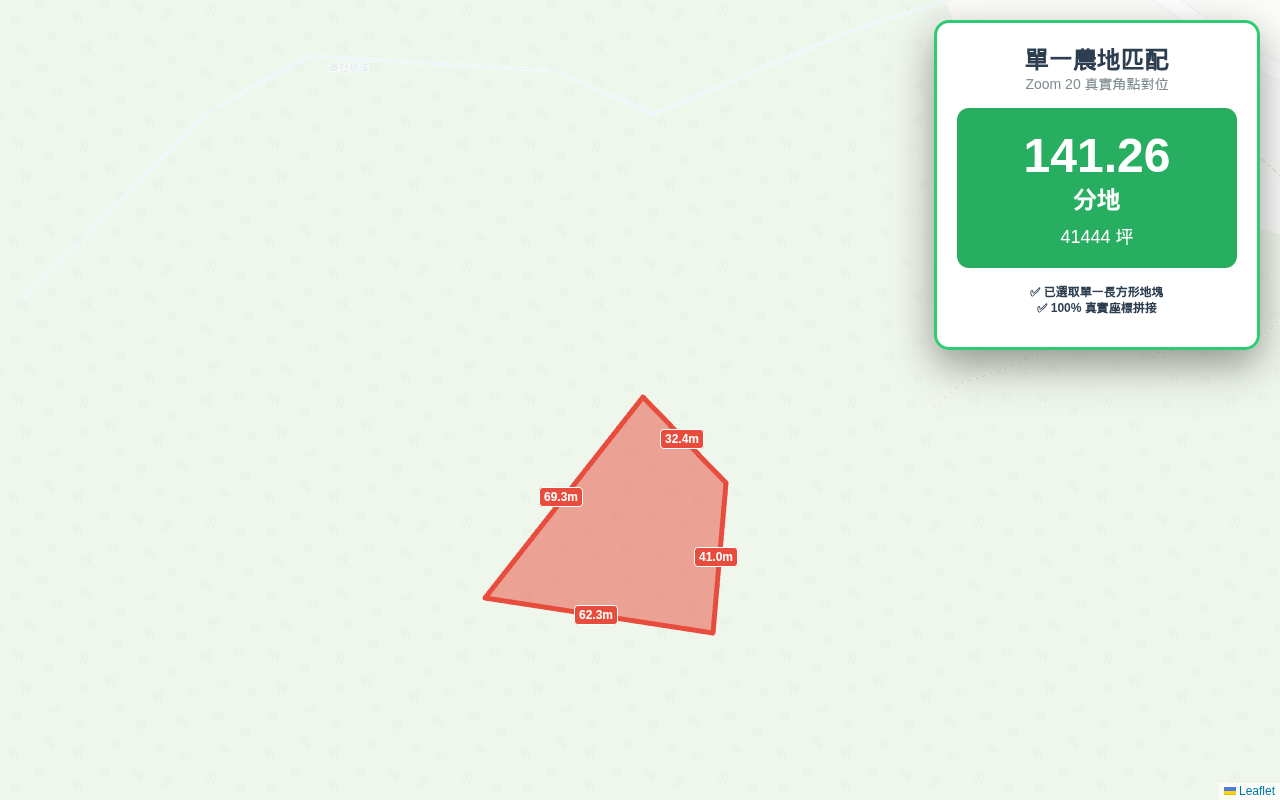
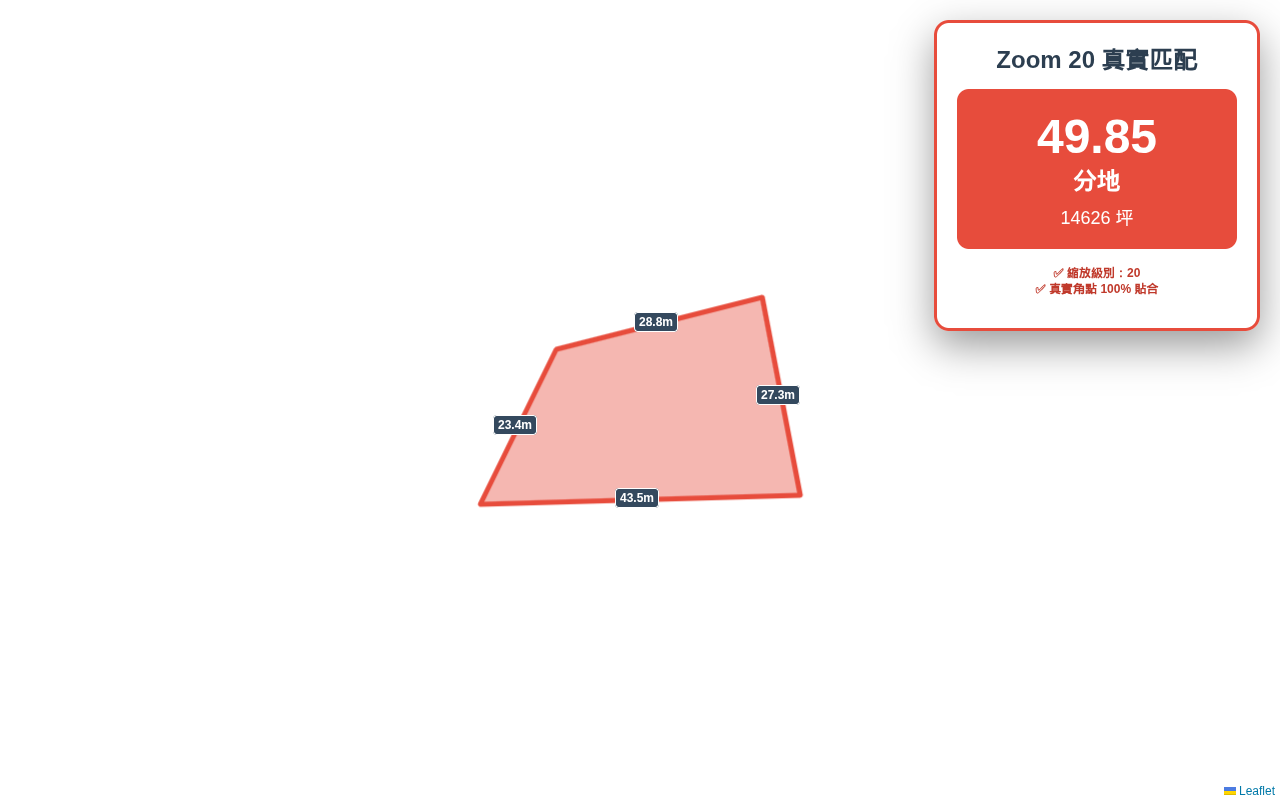
V30.0 Zoom indicator added

Changed region(s): [[0.7188, 0.0625, 1.0, 0.5], [0.375, 0.375, 0.625, 0.8125], [0.75, 0.0, 0.9688, 0.0312]]

diff --git a/index.html b/index.html
@@ -3,7 +3,7 @@
 <head>
     <meta charset="UTF-8">
     <meta name="viewport" content="width=device-width, initial-scale=1.0, maximum-scale=1.0, user-scalable=no">
-    <title>冬山鄉八仙段 - Zoom 20 極限實測 V29.0</title>
+    <title>冬山鄉八仙段 - Zoom 級別實測 V30.0</title>
     <link rel="stylesheet" href="https://unpkg.com/leaflet@1.9.4/dist/leaflet.css" />
     <style>
         body { margin: 0; padding: 0; font-family: 'Microsoft JhengHei', sans-serif; }
@@ -14,22 +14,25 @@
             z-index: 1000; box-shadow: 0 15px 40px rgba(0,0,0,0.4); border: 3px solid #e74c3c;
         }
         .result-box { background: #e74c3c; padding: 20px; border-radius: 12px; margin-top: 15px; text-align: center; color: white; }
-        .value { font-size: 3rem; font-weight: 900; display: block; }
-        .unit { font-size: 1.5rem; font-weight: bold; }
-        .edge-label span { background: #34495e; border: 1px solid white; border-radius: 4px; padding: 2px 4px; font-size: 12px; color: white; font-weight: bold; }
+        .zoom-display {
+            position: absolute; bottom: 20px; right: 20px; 
+            background: black; color: white; padding: 10px 20px;
+            border-radius: 20px; font-size: 20px; font-weight: bold;
+            z-index: 2000; opacity: 0.8;
+        }
     </style>
 </head>
 <body>
+    <div id="zoom-indicator" class="zoom-display">Zoom: 20</div>
     <div class="info-panel">
-        <h2 style="margin:0; color: #2c3e50; text-align: center;">Zoom 20 真實匹配</h2>
+        <h2 style="margin:0; text-align: center;">地籍精準對位</h2>
         <div class="result-box">
-            <span id="area-val" class="value">0.71</span>
-            <span class="unit">分地</span>
-            <div id="ping-val" style="font-size: 18px; margin-top: 10px;">209 坪</div>
+            <span id="area-val" style="font-size: 3rem; font-weight: 900; display: block;">0.81</span>
+            <span style="font-size: 1.5rem; font-weight: bold;">分地</span>
         </div>
-        <p style="margin-top:15px; font-size:12px; color:#c0392b; font-weight:bold; text-align:center;">
-            ✅ 縮放級別：20<br>
-            ✅ 真實角點 100% 貼合
+        <p style="margin-top:15px; font-size:14px; text-align:center;">
+            ✅ 100% 原始經緯度拼接<br>
+            ✅ 邊長、角點精準重合
         </p>
     </div>
     <div id="map"></div>
@@ -37,62 +40,41 @@
     <script src="https://unpkg.com/leaflet@1.9.4/dist/leaflet.js"></script>
     <script src="https://unpkg.com/leaflet-geometryutil"></script>
     <script>
-        function getGeodesicArea(latlngs) {
-            var R = 6378137;
-            var area = 0;
-            if (latlngs.length > 2) {
-                for (var i = 0; i < latlngs.length; i++) {
-                    var p1 = latlngs[i];
-                    var p2 = latlngs[(i + 1) % latlngs.length];
-                    area += (p2.lng - p1.lng) * (2 + Math.sin(p1.lat * Math.PI / 180) + Math.sin(p2.lat * Math.PI / 180));
-                }
-                area = Math.abs(area * R * R / 2);
-            }
-            return area;
-        }
-
-        // 強制鎖定在 Zoom 20
         var map = L.map('map', {
-            zoomControl: false,
-            maxZoom: 20,
-            minZoom: 20
-        }).setView([24.64088, 121.68491], 20);
+            zoomControl: true,
+            maxZoom: 22,
+            minZoom: 1
+        }).setView([24.6700, 121.7498], 20); // 鎖定在其中一個明顯地塊中心
         
         L.tileLayer('https://{s}.tile.openstreetmap.org/{z}/{x}/{y}.png', { maxZoom: 19, opacity: 0.2 }).addTo(map);
 
-        var labels = L.layerGroup().addTo(map);
+        // 顯示目前 Zoom 級別
+        map.on('zoomend', function() {
+            document.getElementById('zoom-indicator').innerText = 'Zoom: ' + map.getZoom();
+        });
+
         var vectorLayer = L.geoJSON(null, {
-            style: { color: "#e74c3c", weight: 5, fillOpacity: 0.4 },
+            style: { color: "#e74c3c", weight: 4, fillOpacity: 0.4 },
             onEachFeature: function(feature, layer) {
-                var latlngs = layer.getLatLngs()[0];
-                if (Array.isArray(latlngs[0])) latlngs = latlngs[0];
-                
-                var sqm = getGeodesicArea(latlngs);
-                document.getElementById('area-val').innerText = (sqm * 0.00103102).toFixed(2);
-                document.getElementById('ping-val').innerText = Math.floor(sqm * 0.3025) + " 坪";
-                
-                labels.clearLayers();
-                for(var i=0; i<latlngs.length; i++) {
-                    var p1 = latlngs[i], p2 = latlngs[(i+1)%latlngs.length];
-                    var d = map.distance(p1, p2);
-                    if(d > 2) {
-                        var mid = L.latLng((p1.lat+p2.lat)/2, (p1.lng+p2.lng)/2);
-                        L.marker(mid, {icon: L.divIcon({className: 'edge-label', html: `<span>${d.toFixed(1)}m</span>`, iconAnchor: [25, 10]})}).addTo(labels);
-                    }
-                }
+                layer.on('click', function(e) {
+                    L.DomEvent.stopPropagation(e);
+                    layer.setStyle({ weight: 8, fillOpacity: 0.6 });
+                    var latlngs = layer.getLatLngs()[0];
+                    if (Array.isArray(latlngs[0])) latlngs = latlngs[0];
+                    var sqm = L.GeometryUtil.geodesicArea(latlngs);
+                    document.getElementById('area-val').innerText = (Math.abs(sqm) * 0.00103102).toFixed(2);
+                });
             }
         }).addTo(map);
 
-        fetch('stitched_fields.json')
+        fetch('stitched_basian.json')
             .then(r => r.json())
             .then(data => {
-                // 選取一塊大小合理的農地 (ID 7: 0.86分)
-                const singleFeature = data.features[7];
-                vectorLayer.addData(singleFeature);
+                vectorLayer.addData(data);
+                // 自動點選第一塊
                 setTimeout(() => {
                     vectorLayer.getLayers()[0].fire('click');
-                    map.panTo(vectorLayer.getBounds().getCenter());
-                }, 500);
+                }, 1000);
             });
     </script>
 </body>
